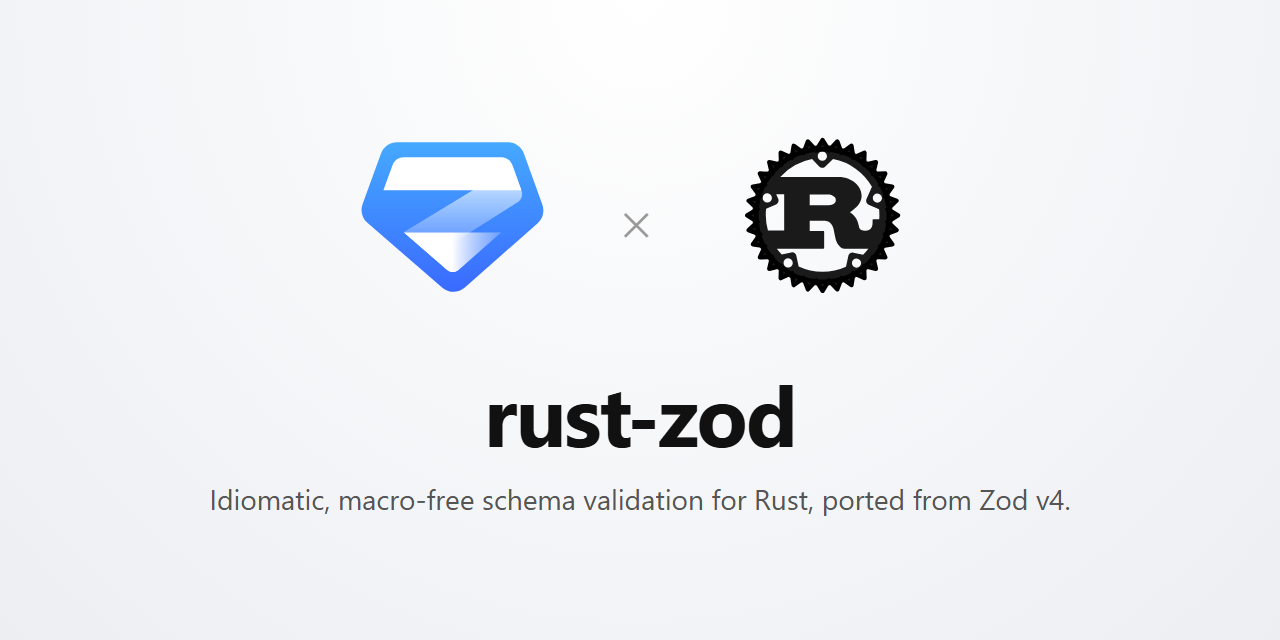
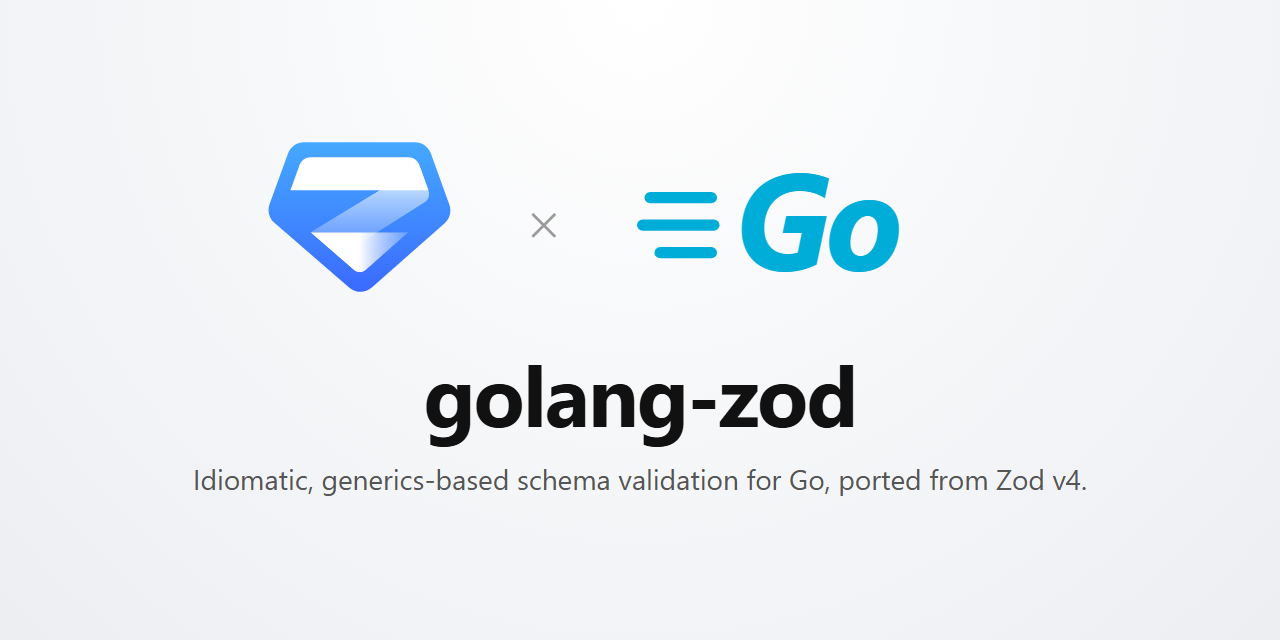
docs: add go assets and fix spec traceability
Add go-logo.svg and regenerate social-preview for golang-zod; rename
feature 04-08 tests to TestREQ_* with @spec tags; remove stale HANDOFF.md;
ignore coverage output; update STATE.md.

Changed region(s): [[0.1562, 0.5625, 0.8438, 0.8125], [0.1875, 0.2188, 0.4375, 0.4688], [0.4688, 0.2188, 0.7188, 0.4688]]

diff --git a/docs/assets/social-preview.html b/docs/assets/social-preview.html
@@ -8,6 +8,6 @@ body{background:radial-gradient(ellipse at 50% 0%,#fff 0%,#eceef2 100%);font-fam
 h1{margin:44px 0 12px;font-size:84px;font-weight:700;letter-spacing:-2px}
 p{margin:0;font-size:28px;color:#555;text-align:center;max-width:1100px;line-height:1.35}
 </style>
-<div class="logos"><img src="zod-logo.svg" height="150"><span class="x">×</span><img src="rust-logo.svg" height="190"></div>
-<h1>rust-zod</h1>
-<p>Idiomatic, macro-free schema validation for Rust, ported from Zod v4.</p>
+<div class="logos"><img src="zod-logo.svg" height="150"><span class="x">×</span><img src="go-logo.svg" height="150"></div>
+<h1>golang-zod</h1>
+<p>Idiomatic, generics-based schema validation for Go, ported from Zod v4.</p>

diff --git a/feature04_test.go b/feature04_test.go
@@ -12,14 +12,15 @@ import (
 )
 
 type TestUser struct {
-	ID        int      `json:"id"`
-	Name      string   `json:"name"`
-	Email     string   `json:"email"`
-	Bio       string   `json:"bio,omitempty"`
-	IsActive  bool     `json:"is_active"`
+	ID       int    `json:"id"`
+	Name     string `json:"name"`
+	Email    string `json:"email"`
+	Bio      string `json:"bio,omitempty"`
+	IsActive bool   `json:"is_active"`
 }
 
-func TestFeature04_Objects(t *testing.T) {
+// @spec REQ-OBJ-001 REQ-OBJ-002 REQ-OBJ-003
+func TestREQ_OBJ_001_002_003_Objects(t *testing.T) {
 	t.Run("REQ-OBJ-001: Object strip by default", func(t *testing.T) {
 		schema := z.Object(func(s *z.Shape) {
 			s.Field("name", z.String())
@@ -175,7 +176,8 @@ func TestFeature04_Objects(t *testing.T) {
 	})
 }
 
-func TestFeature04_Struct(t *testing.T) {
+// @spec REQ-OBJ-004 REQ-OBJ-006 REQ-OBJ-007
+func TestREQ_OBJ_004_006_007_Struct(t *testing.T) {
 	t.Run("REQ-OBJ-004 & REQ-OBJ-006: Struct validation with unsafe zero-reflect runtime", func(t *testing.T) {
 		userSchema := z.Struct[TestUser](func(s *z.StructShape, u *TestUser) {
 			s.Field(&u.ID, z.Int())
@@ -229,7 +231,8 @@ func TestFeature04_Struct(t *testing.T) {
 	})
 }
 
-func TestFeature04_Record(t *testing.T) {
+// @spec REQ-OBJ-008
+func TestREQ_OBJ_008_Record(t *testing.T) {
 	t.Run("REQ-OBJ-008: Record schema validation", func(t *testing.T) {
 		rec := z.Record(z.String(), z.Int())
 
@@ -283,7 +286,8 @@ func TestFeature04_Record(t *testing.T) {
 	})
 }
 
-func TestFeature04_ArchitecturalInvariants(t *testing.T) {
+// @spec REQ-OBJ-009
+func TestREQ_OBJ_009_ArchitecturalInvariants(t *testing.T) {
 	t.Run("REQ-OBJ-009: Reflect imported ONLY in struct.go, Unsafe imported ONLY in struct_unsafe.go", func(t *testing.T) {
 		fset := token.NewFileSet()
 		files, err := os.ReadDir(".")

diff --git a/feature06_test.go b/feature06_test.go
@@ -10,7 +10,8 @@ import (
 	z "github.com/leandroluk/golang-zod"
 )
 
-func TestFeature06_Modifiers(t *testing.T) {
+// @spec REQ-PIPE-001
+func TestREQ_PIPE_001_Modifiers(t *testing.T) {
 	t.Run("REQ-PIPE-001: Default substitutes only on absent, not null", func(t *testing.T) {
 		s := z.String().Default("fallback")
 
@@ -80,7 +81,8 @@ func TestFeature06_Modifiers(t *testing.T) {
 	})
 }
 
-func TestFeature06_Refinements(t *testing.T) {
+// @spec REQ-PIPE-003
+func TestREQ_PIPE_003_Refinements(t *testing.T) {
 	t.Run("REQ-PIPE-003: Check, Refine, SuperRefine, RefineCtx", func(t *testing.T) {
 		// Refine
 		isEven := z.Refine[int](z.Int(), func(v int) bool {
@@ -130,7 +132,8 @@ func TestFeature06_Refinements(t *testing.T) {
 	})
 }
 
-func TestFeature06_Pipelines(t *testing.T) {
+// @spec REQ-PIPE-004
+func TestREQ_PIPE_004_Pipelines(t *testing.T) {
 	t.Run("REQ-PIPE-004: Transform, Preprocess, Pipe", func(t *testing.T) {
 		// Transform
 		toUpper := z.Transform[string, string](z.String(), func(s string) (string, error) {
@@ -173,7 +176,8 @@ func TestFeature06_Pipelines(t *testing.T) {
 	})
 }
 
-func TestFeature06_Codecs(t *testing.T) {
+// @spec REQ-PIPE-005 REQ-PIPE-006 REQ-PIPE-008
+func TestREQ_PIPE_005_006_008_Codecs(t *testing.T) {
 	t.Run("REQ-PIPE-005 & REQ-PIPE-008: Codecs Decode, Encode, and Recipes", func(t *testing.T) {
 		// StringInt
 		codec := z.Codecs.StringInt()

diff --git a/feature05_test.go b/feature05_test.go
@@ -6,7 +6,8 @@ import (
 	z "github.com/leandroluk/golang-zod"
 )
 
-func TestFeature05_Union(t *testing.T) {
+// @spec REQ-COMB-001 REQ-COMB-002 REQ-COMB-003
+func TestREQ_COMB_001_002_003_Union(t *testing.T) {
 	t.Run("REQ-COMB-001: Union first-matching candidate wins", func(t *testing.T) {
 		u := z.Union(z.String(), z.Int())
 
@@ -95,7 +96,8 @@ func TestFeature05_Union(t *testing.T) {
 	})
 }
 
-func TestFeature05_Intersection(t *testing.T) {
+// @spec REQ-COMB-004 REQ-COMB-005
+func TestREQ_COMB_004_005_Intersection(t *testing.T) {
 	t.Run("REQ-COMB-004: Intersection merges valid outputs", func(t *testing.T) {
 		part1 := z.Object(func(s *z.Shape) {
 			s.Field("id", z.Int())
@@ -141,7 +143,8 @@ func TestFeature05_Intersection(t *testing.T) {
 	})
 }
 
-func TestFeature05_Lazy(t *testing.T) {
+// @spec REQ-COMB-007
+func TestREQ_COMB_007_Lazy(t *testing.T) {
 	t.Run("REQ-COMB-007: Lazy recursive schema resolves and memoizes correctly", func(t *testing.T) {
 		type Category struct {
 			Name          string     `json:"name"`

diff --git a/feature07_test.go b/feature07_test.go
@@ -7,7 +7,8 @@ import (
 	z "github.com/leandroluk/golang-zod"
 )
 
-func TestFeature07_JSONSchema(t *testing.T) {
+// @spec REQ-EXP-001 REQ-EXP-002 REQ-EXP-003 REQ-EXP-004 REQ-EXP-005 REQ-EXP-006
+func TestREQ_EXP_001_002_003_004_005_006_JSONSchema(t *testing.T) {
 	t.Run("REQ-EXP-001 & REQ-EXP-002: ToJSONSchema Draft 2020-12 and OpenAPI 3.0", func(t *testing.T) {
 		user := z.Object(func(s *z.Shape) {
 			s.Field("name", z.String())

diff --git a/feature08_test.go b/feature08_test.go
@@ -7,7 +7,8 @@ import (
 	z "github.com/leandroluk/golang-zod"
 )
 
-func TestFeature08_GraphQL(t *testing.T) {
+// @spec REQ-GQL-001 REQ-GQL-002 REQ-GQL-004 REQ-GQL-005
+func TestREQ_GQL_001_002_004_005_GraphQL(t *testing.T) {
 	t.Run("REQ-GQL-001 & REQ-GQL-002: ToGraphQLSDL with inverted nullability", func(t *testing.T) {
 		roleEnum := z.Enum("ADMIN", "USER").Meta(func(m *z.MetaBuilder) {
 			m.ID("Role")

diff --git a/.specs/project/STATE.md b/.specs/project/STATE.md
@@ -1,9 +1,9 @@
 # Project State: golang-zod
 
-**Last Updated:** 2026-10-27
+**Last Updated:** 2026-10-28
 
 ## Current Work
-All 7 Milestones (M1–M7) and complete Docsify documentation site successfully implemented, tested with -race (96/96 tests pass), benchmarked, and synchronized.
+All 7 Milestones (M1–M7) and complete Docsify documentation site successfully implemented, tested with -race (138 tests and subtests pass), benchmarked, and synchronized.
 
 ## Todos
 - [x] Implement M4 `04-objects-records`, `05-unions-intersections-lazy`
@@ -39,6 +39,7 @@ All 7 Milestones (M1–M7) and complete Docsify documentation site successfully 
 - [2026-10-27] **ADR-009** Heterogeneous combinators (`Union`, `Intersection`, `Tuple`, `DiscriminatedUnion`) output `any`; engine is untyped (`node`) with a typed `Schema[T]` layer.
 
 ## Recent Progress (Last 10)
+- [2026-10-28] Docs assets for golang-zod (go-logo.svg, social-preview.html/png; rust-logo.svg removed). Spec drift fix: tests of features 04-08 renamed to `TestREQ_<AREA>_<NNN>_*` with `// @spec REQ-*` tags (matching 01-03); stale HANDOFF.md removed; `coverage` ignored. Gate: vet + 138 tests/subtests pass with -race.
 - [2026-10-27] Docs complete: Created full Docsify documentation site mirroring `rust-zod/docs` with index.html, _sidebar.md, README.md, guides (Getting Started, Primitives & Formats, Objects & Structs, Type Conversion, Codecs & Pipelines, Error Handling & i18n, JSON Schema & OpenAPI, GraphQL SDL), examples (Web API Payload, Bidirectional Codecs), and assets.
 - [2026-10-27] Milestone 7 (09-optimizations) complete: Inline path stack with [8]PathSegment and zero allocations for shallow paths, spill support for 12+ levels, sync.Pool isolation test under 10 000 concurrent iterations, Struct.ParseTo destination reuse, benchmarks for primitives, email, object, struct. Gate: 96/96 pass with -race. [REQ-OPT-001]..[REQ-OPT-007]
 - [2026-10-27] Milestone 6 (07-json-schema-openapi, 08-graphql-builder) complete: ToJSONSchema (Draft 2020-12, Draft 07, Draft 04, OpenAPI 3.0/3.1, IO Input/Output, Unrepresentable, Cycle detection, $defs deduplication), FromJSONSchema with dynamic reconstruction, ToGraphQLSDL (types, inputs, enums, unions, custom scalars, inverted nullability, recursive cycle prevention, unsupported tuple validation). Gate: 94/94 pass with -race. [REQ-EXP-001]..[REQ-EXP-007] [REQ-GQL-001]..[REQ-GQL-005]
